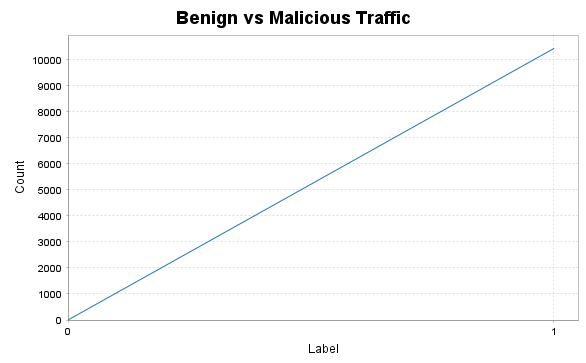
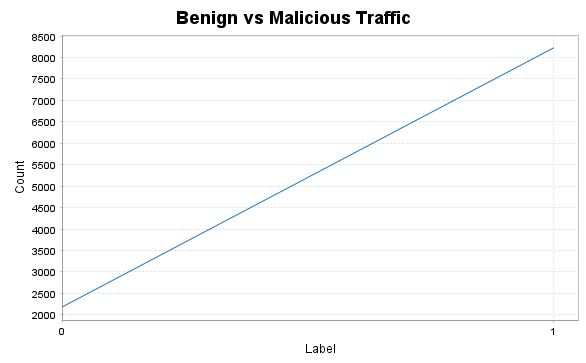
refactor: changed visualization charts

diff --git a/src/main/scala/notes.md b/src/main/scala/notes.md
@@ -38,5 +38,33 @@ Spark's UI will be available at http://localhost:18080.
 Copy the dataset to S3:
 ```
 aws s3 cp datasets/dataset18-2.csv s3://mhs-lab1/datasets/datasetIoT.csv --region us-east-1 --no-verify-ssl
-
 ```
+
+Get Master Public DNS:
+```
+aws emr list-clusters --max-items 1
+aws emr describe-cluster --cluster-id j-20LZK4UL5O77V --query "Cluster.MasterPublicDnsName" --output text
+```
+
+Custom cluster resources:
+```
+aws emr create-cluster \
+    --name "Big Data Cluster" \
+    --release-label "emr-7.11.0" \
+    --applications Name=Hadoop Name=Spark \
+    --instance-groups \
+    InstanceGroupType=MASTER,InstanceCount=1,InstanceType=m5.xlarge \
+    InstanceGroupType=CORE,InstanceCount=2,InstanceType=m5.xlarge \
+    --service-role EMR_DefaultRole \
+    --ec2-attributes InstanceProfile=EMR_EC2_DefaultRole,KeyName=<my_key_pair_name> \
+    --region "us-east-1"
+```
+
+Spark submit to EMR:
+```
+--num-executors 2
+--executor-cores 2
+--executor-memory 6G
+--driver-memory 4G
+```
+
